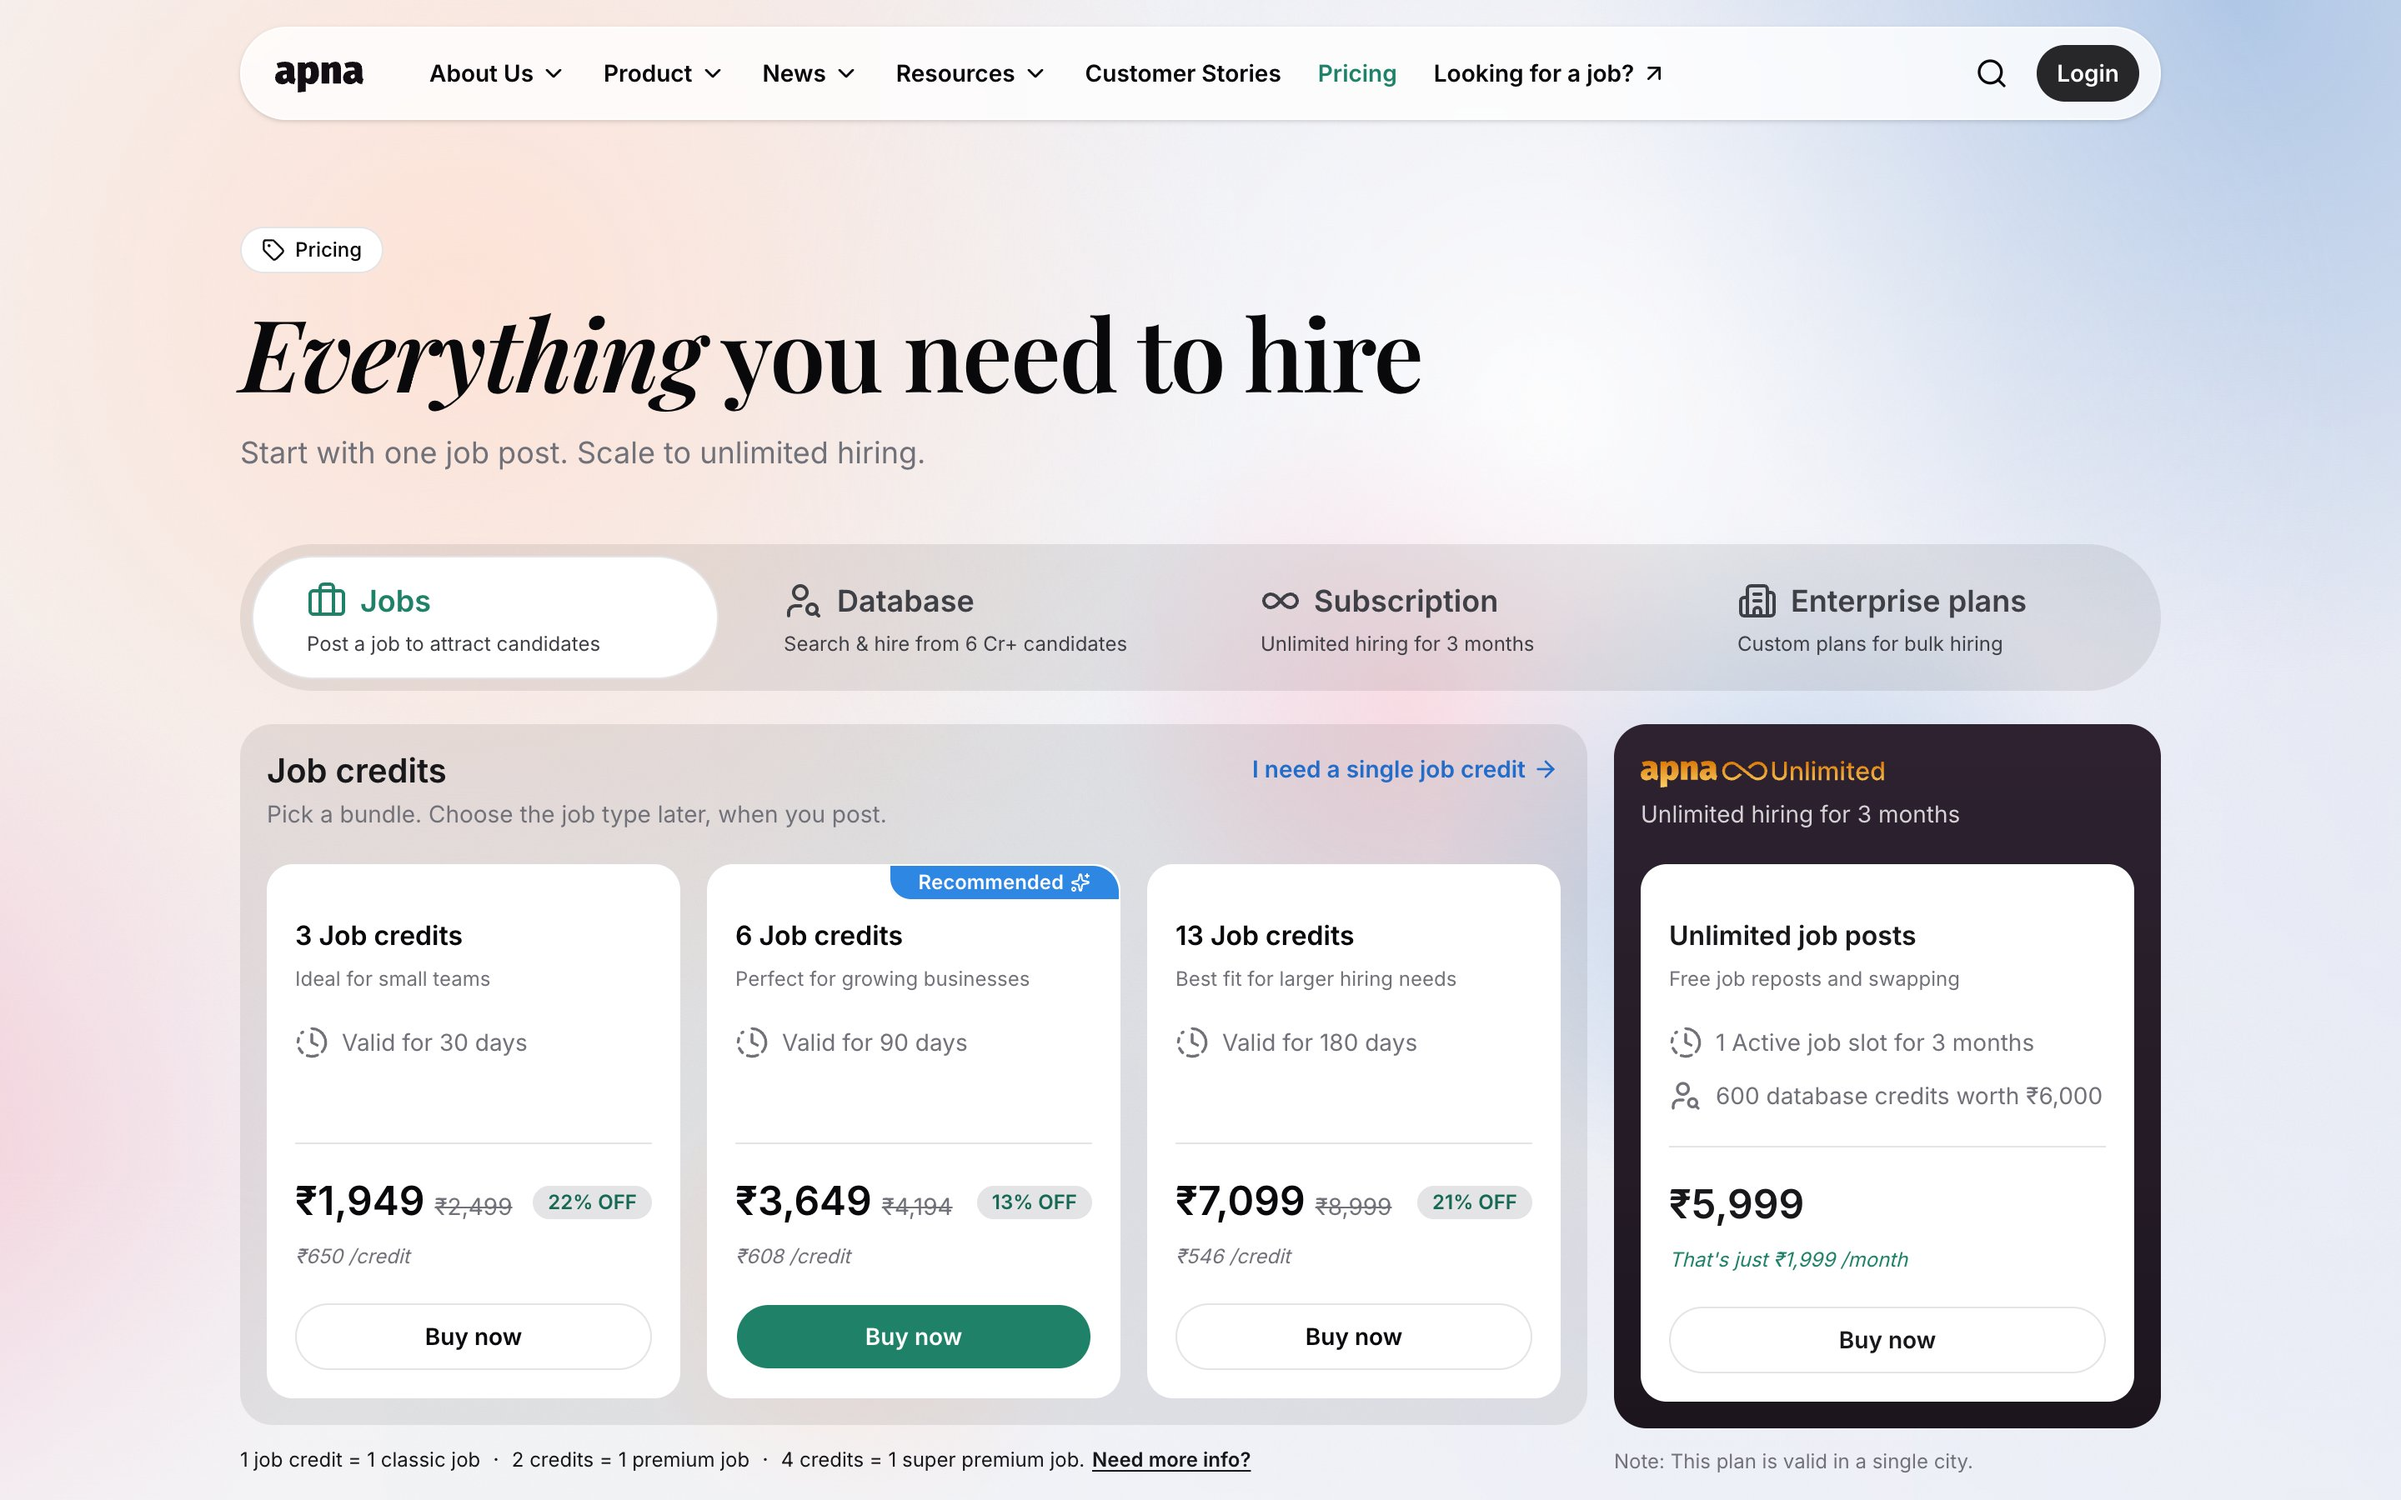
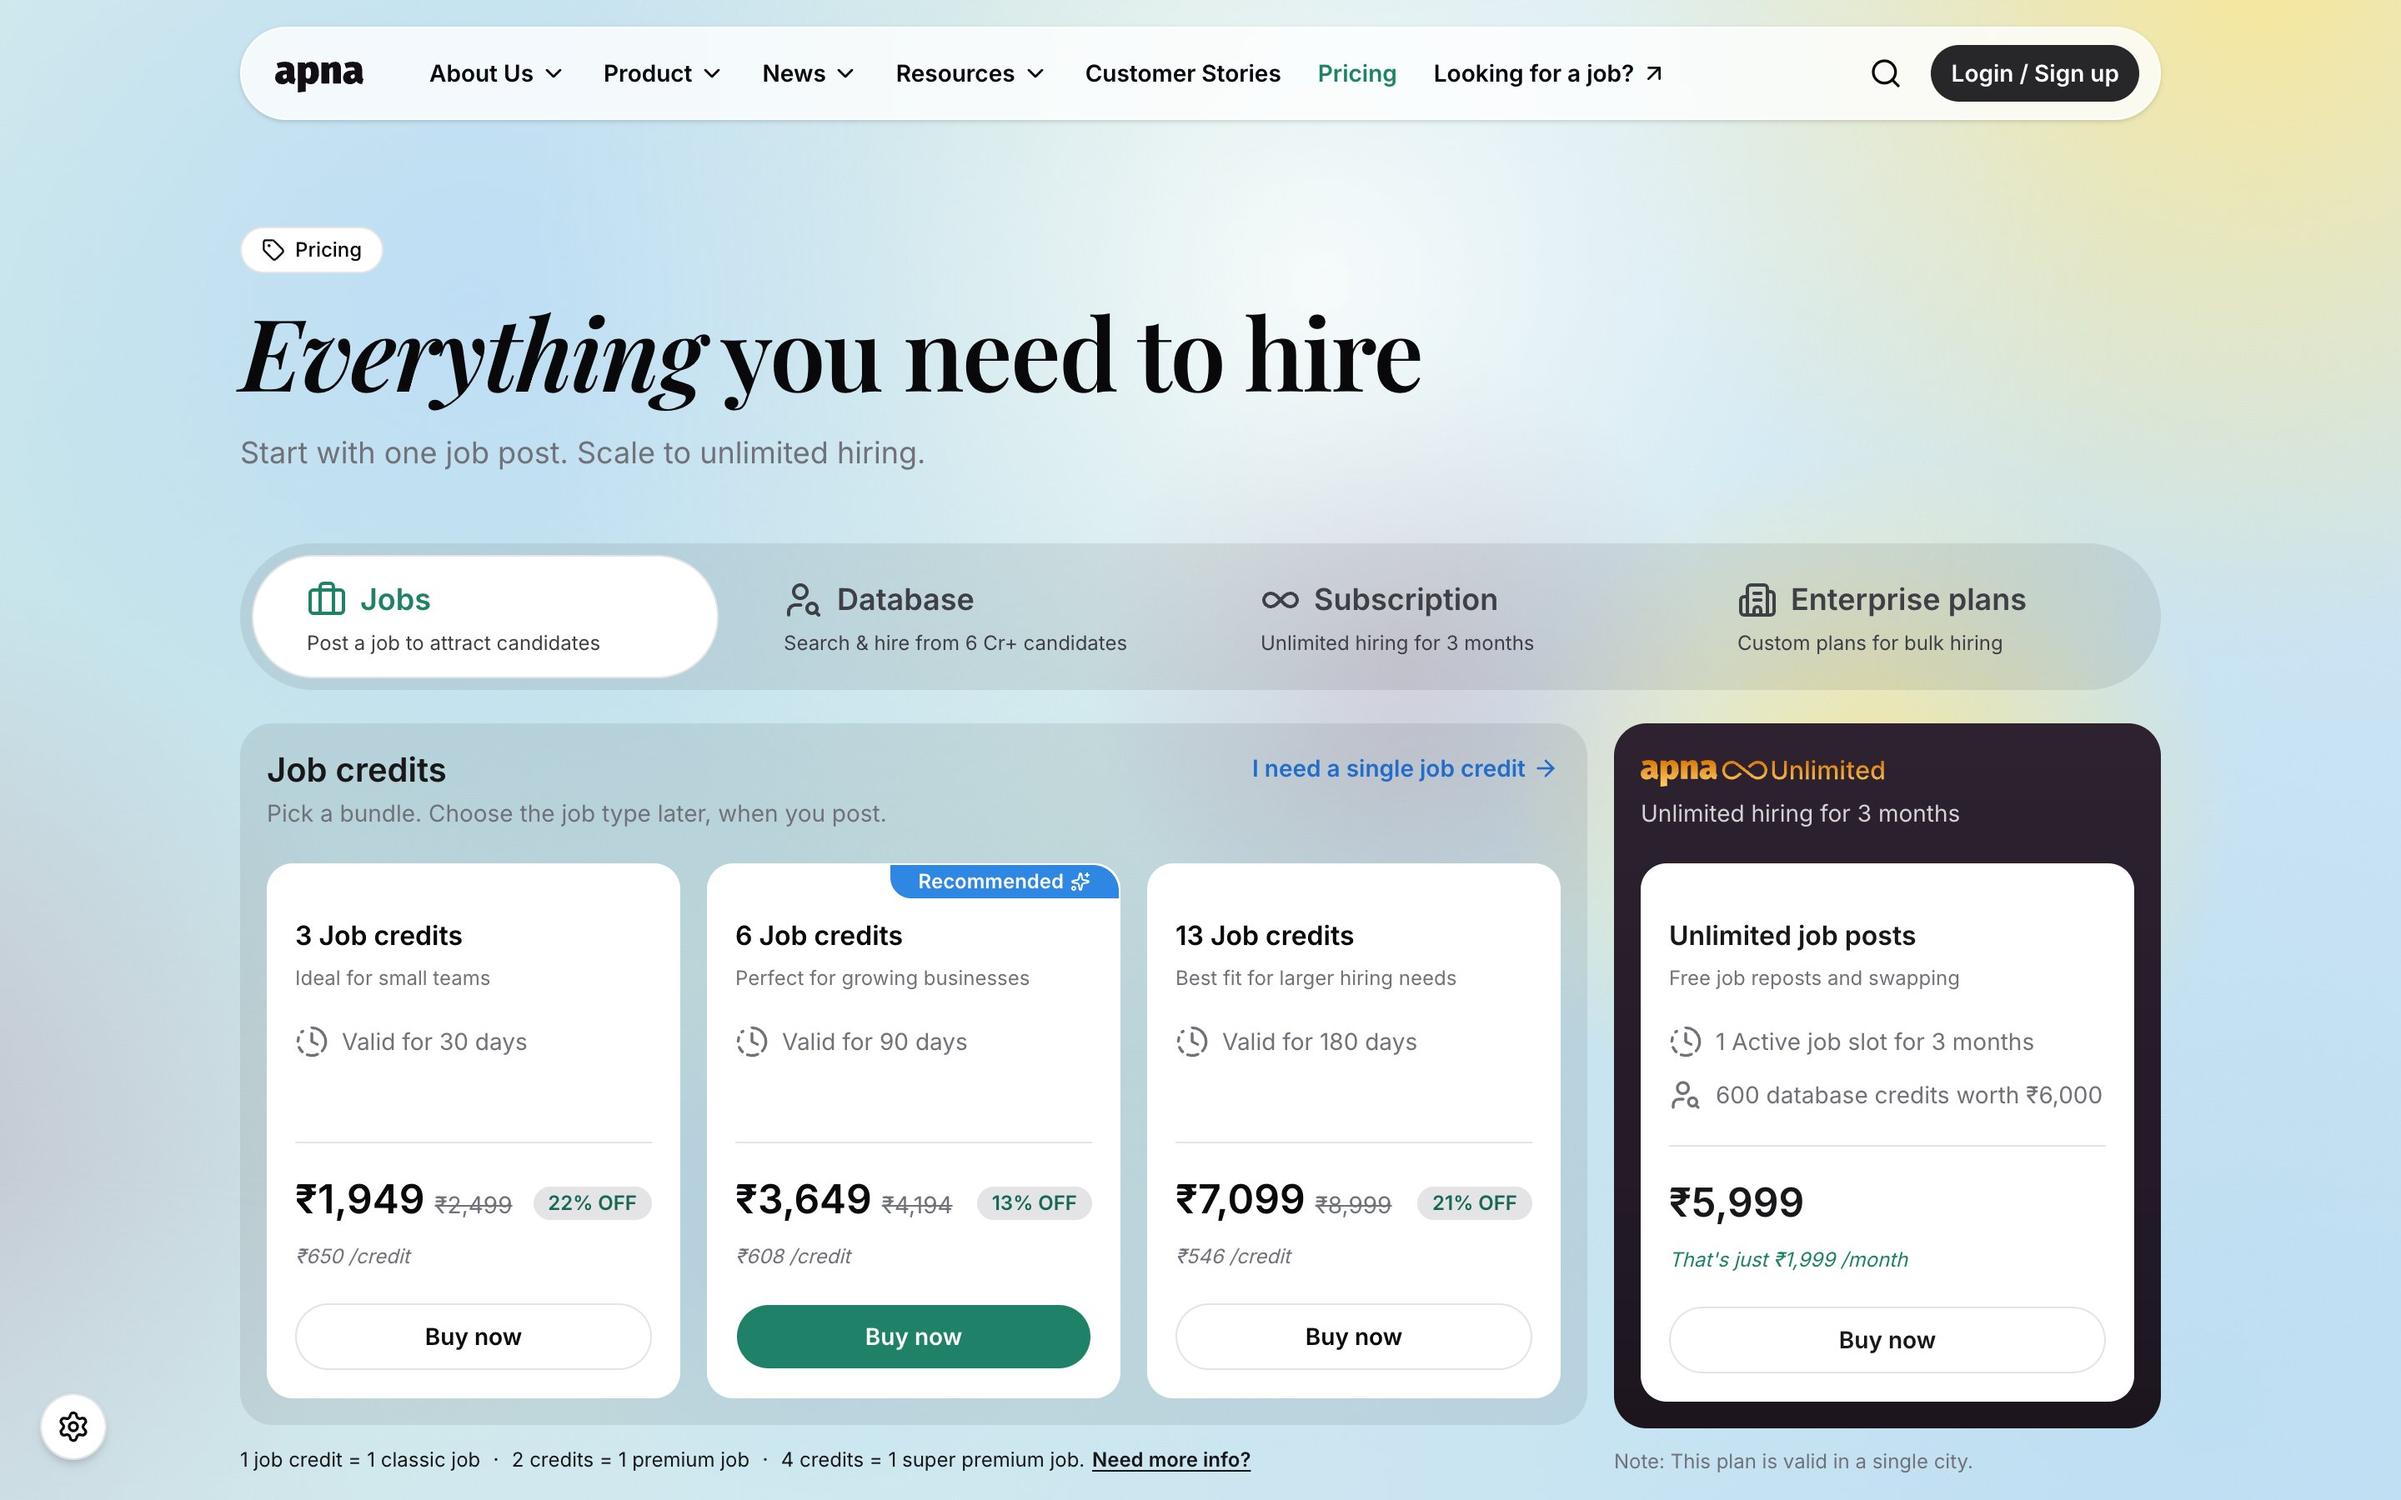
feat(redrawn): fresh screenshots with the new gradient; phones show the dashboard
Pricing (desktop) and the mobile home are re-captured in light mode with the
brand mother gradient. The second phone is now the recruiter dashboard
(light + dark) instead of mobile pricing, which the browser slide already
shows; the old mobile-pricing captures are removed.

diff --git a/public/redrawn/index.html b/public/redrawn/index.html
@@ -1030,7 +1030,7 @@ h2 em, h1 em { font-style: italic; }
       <h2 class="rise">In every <em>pocket.</em></h2>
       <div class="phones rise">
         <figure class="phone"><img src="img/mobile-home.jpg" data-dark="img/mobile-home-dark.jpg" alt="The homepage on a phone: headline and sign-up card" loading="lazy"><figcaption>Sign up in the first screen</figcaption></figure>
-        <figure class="phone"><img src="img/mobile-pricing.jpg" data-dark="img/mobile-pricing-dark.jpg" alt="Pricing on a phone: plan chips and selectable credit bundles with a sticky buy bar" loading="lazy"><figcaption>Choose and pay with one thumb</figcaption></figure>
+        <figure class="phone"><img src="img/mobile-dashboard.jpg" data-dark="img/mobile-dashboard-dark.jpg" alt="The recruiter dashboard on a phone: jobs with applied and active-lead counts, and a bottom bar with Plans" loading="lazy"><figcaption>Every job, one thumb away</figcaption></figure>
       </div>
     </div>
   </section>
